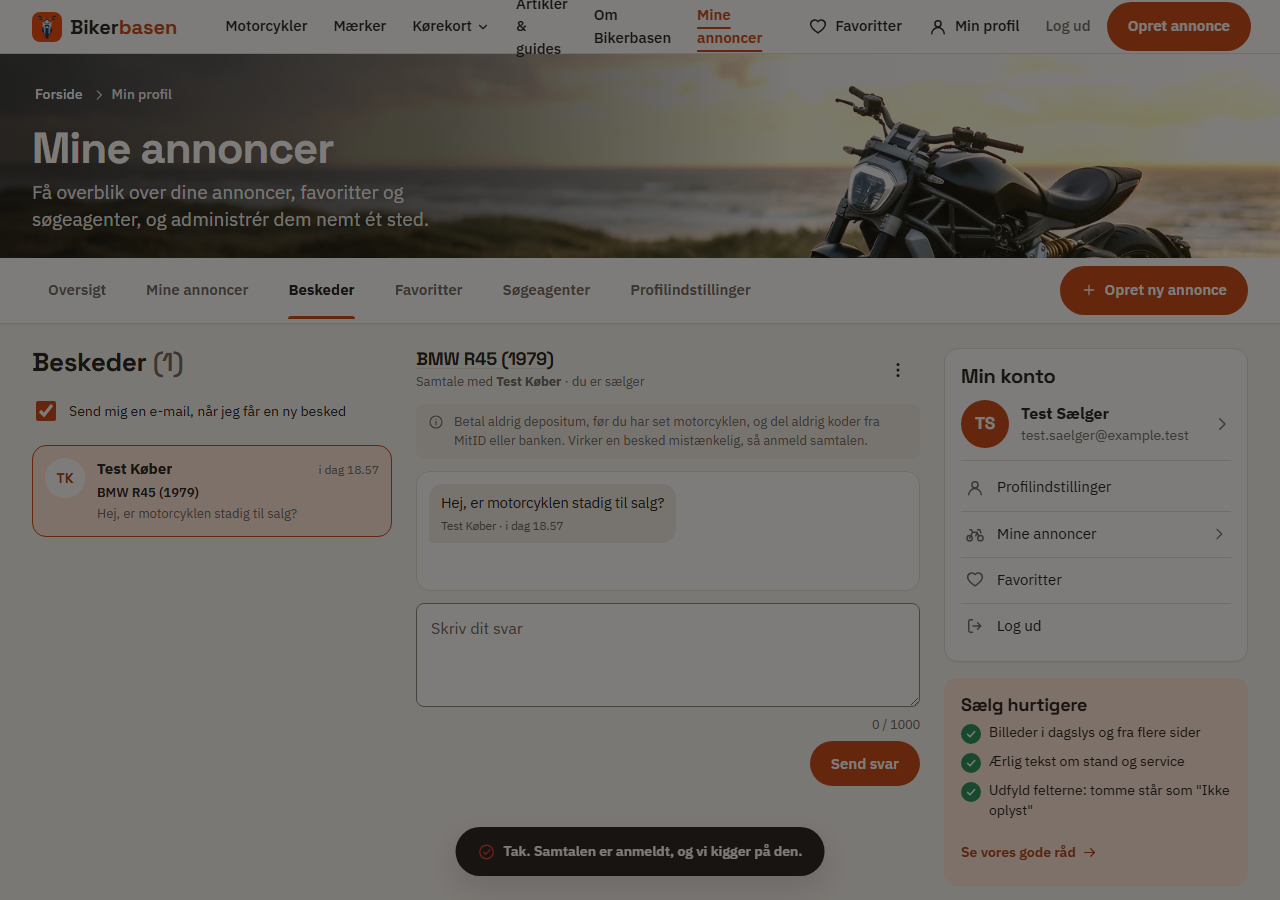
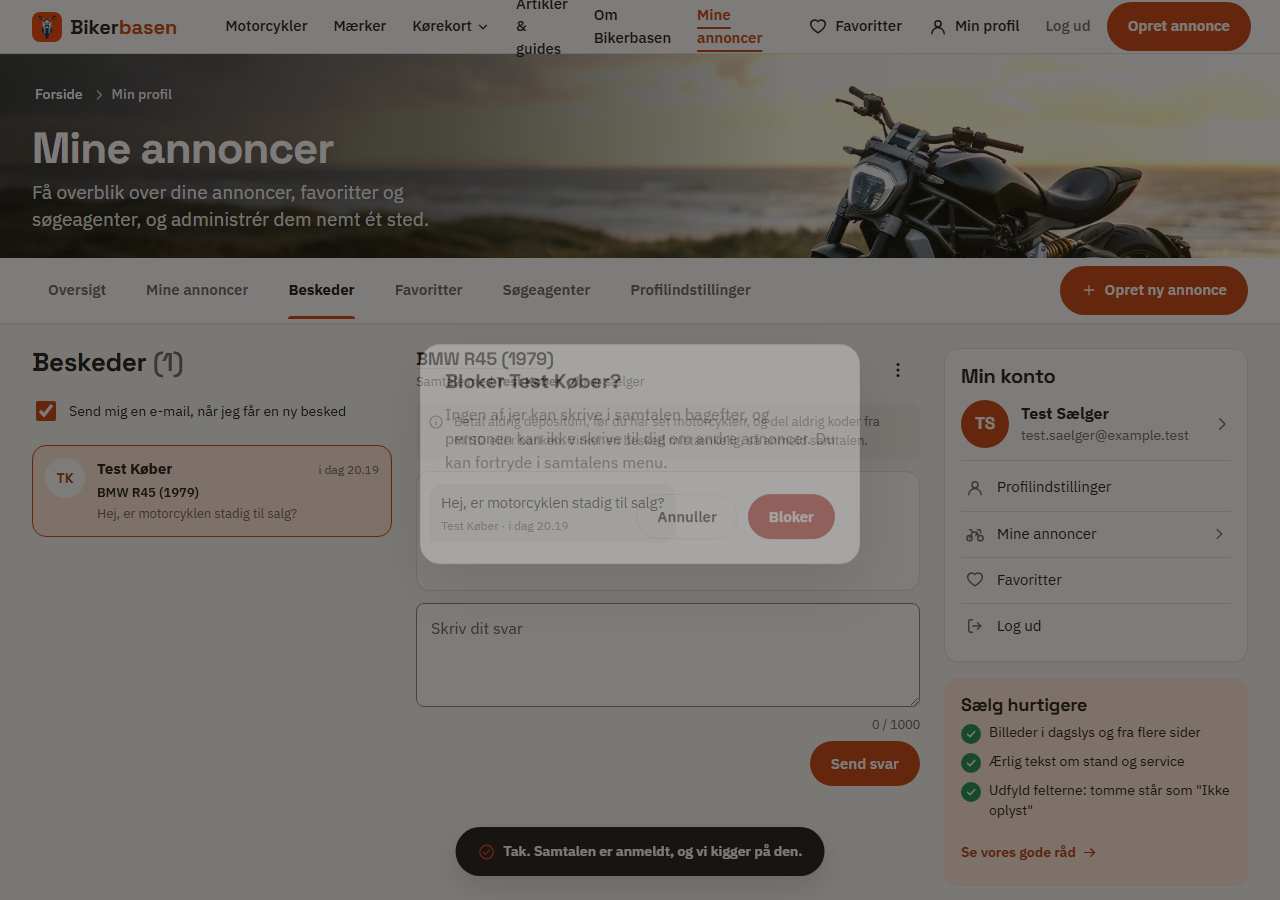
V7 beskeder: doku (aktiveringsguide, privatlivsforslag, selvvurdering) og slutskaermbilleder

Changed region(s): [[0.3125, 0.3733, 0.6875, 0.6533]]

diff --git a/docs/review/gauntlet/v7/besked.md b/docs/review/gauntlet/v7/besked.md
@@ -70,6 +70,7 @@ Fejler notifikationen, gemmes beskeden alligevel. Uudfyldte `<<PROJEKT_URL>>`/`<
 | `css/p-annonce.css` | To små regler til den nye kontaktbeskrivelse + pladsreservation til formularen. |
 | `scripts/v5-sidevaegt.budget.json` | Budget for de to nye filer + `supabase-config.js` (begrundet under `begrundelser_v7`). |
 | `js/w5-hjaelp.js` | Valgfri 4. parameter `foer` til `indlaes()` (kode før kilderne, bruges til flag-tests). |
+| `scripts/kritisk-gen.js` (+3 linjer), `scripts/kritisk-manifest.json` | **Ønsket ændring i fælles fil, gjort fordi gaten ellers fejler**: manifestet kendte kun ark, en side linker til; `scripts/w12-kritisk.test.js` kræver, at ALLE `css/*.css`-regler er kendt. `css/p-beskeder.css` er bevidst ikke linket fra nogen side (lazy), så generatoren tager nu alle ark i `css/` med i `regler` (aldrig i en families kritiske udsnit). Manifestet er regenereret med `kritisk-gen` (+100 regler). |
 
 ## 4. Flag fra (standard): hvad ser brugeren nu?
 
@@ -103,6 +104,10 @@ Nye filer (**ikke tilføjet til `package.json`** — Orchestrator ejer listen):
 | `js/v7-besked.test.js` | node | Validering, normalisering = SQL-reglen, hver SQL-kode har en dansk tekst, låse-/tids-/badgetekster, formularens markup, **flaget er default fra**, `beskeder.js` står ikke i nogen HTML, `bbIndlaesBeskeder()` henter intet uden flag, sælgerkortet i alle flag/login/uuid/egen-kombinationer. |
 | `js/v7-besked-sql.test.js` | node, **statisk SQL** | Alle tabeller har RLS; kun to politikker og begge `for select … to authenticated … auth.uid()`; ingen `using (true)`; ingen skrive-politik; ingen grant til anon/skriveret; hver funktion `security definer` + tom `search_path`; kun ti klientfunktioner med `execute` til authenticated; ingen e-mail/telefon i svar; rate-limit-linjerne findes; trigger-vagt; Edge Function læser ikke beskedtekst, escaper titel, kræver secret; ren ASCII; mock og SQL deler koder. |
 | `js/v7-besked-flow.test.js` | Playwright + mock | Flag fra (udlogget/indlogget, intet modul hentet, fane skjult); flag til: login-CTA, validering uden kald, send (netfejl, dobbeltklik, kvittering, notifikation uden tekst), honeypot, uverificeret e-mail + "send linket igen", egen/demo-annonce, mobilbjælke, sælger-badge -> læs -> svar -> køber-badge, deep-link, spam-grænser, slettet/solgt/pauset, blokér/fortryd/anmeld, XSS/escaping, tom/fejl-indbakke, mailvalg, **375/430 lys+mørk**, 1440/1920 mørk, CLS. Skærmbilleder med `BESKED_SKAERM=<mappe>`. |
+
+**Kørt på bygget tilstand** (`build.js` -> `kritisk-gen.js` -> `build.js`, alle exit 0): de tre nye + `w5-annonce`, `w6-funktion`, `v4-annonce`,
+`w14-annonce`, `w12-kritisk`, `v5-sidevaegt`, `csp-hashes`, `v6-konto-vagt`, `mine-annoncer` = 169 tests, **3 kørsler i træk, 0 fejl**.
+`smoke-browser --strikt --cls 0.05` (375/430/768/1440/1920, lys+mørk): `annonce.html` (10 målinger) og `--login-mock` med `mine-annoncer.html` (alle faner) + `opret-annonce.html` (70 målinger), **2 kørsler, 0 fejl, 0 advarsler**. Smoke kører med flaget FRA (standard); flag-til dækkes af `v7-besked-flow.test.js`. Det genererede byg-output er kasseret igen (kun `kritisk-manifest.json` er committet).
 
 Eksisterende tests, jeg har måttet røre (copy-ændringen er opgavens kerne):
 `js/w5-annonce.test.js`, `js/w6-funktion.test.js`, `js/v4-annonce.test.js` (nye formuleringer i flag-fra-teksten), `js/w6-funktion.test.js`
@@ -170,16 +175,31 @@ Rækkefølge — **flaget sættes SIDST**. Intet af dette er gjort.
 2. **Mailen kan ikke testes uden Resend/Deno.** Edge Function er læst og statisk kontrolleret, ikke kørt.
 3. **E-mailbekræftelse**: kræver at projektet faktisk sender bekræftelsesmails ved oprettelse. Er "Confirm email" slået fra i Supabase Auth, er ingen bruger "verificeret", og ingen kan skrive. Tjek Auth-indstillingen før flaget.
 4. **Statiske annoncesider** (`annonce-*.html`) har stadig "Log ind for at se sælger og kontaktoplysninger." i forrenderet markup (`scripts/build-listing-pages.js:288`) i de millisekunder, før JS erstatter kortet. Det er sandt nok i begge flagtilstande, men en ændring i generatoren (ikke mit område) kunne sige "Skriv til sælgeren" ved flag til.
-5. **Tilbagelevering til tredje part**: dealer-annoncer i `listings` får også beskedflade (alle brugeroprettede annoncer); eksterne har aldrig.
+5. **Dealer-annoncer**: dealer-annoncer i `listings` får også beskedflade (alle brugeroprettede annoncer); eksterne har aldrig.
 6. **Ingen realtime**: indbakken genhenter hvert 30. sekund og ved fokus. Supabase Realtime kunne erstatte det; kræver en politik-gennemgang.
 7. **Ingen vedhæftninger, ingen billeder i beskeder** (bevidst: ingen filer fra fremmede, ingen EXIF).
 8. **Mine annoncer-oversigtens statistikkort** viser ikke et beskedtal (badge på fane og header dækker behovet; kortgitteret har fem fliser).
 9. `package.json` "test"-listen skal have de tre nye filer (Orchestrator).
+10. **Før-eksisterende, ikke rørt**: headerens hovednavigation ombryder ("Artikler & guides", "Om Bikerbasen", "Mine annoncer" på 2-3 linjer) mellem ca. 1180 og 1366 px — målt identisk med og uden mine ændringer (flag fra, ingen badge). Badgen på "Min profil" tilføjer ~24 px til en allerede trang række ved de bredder; bør løses sammen med navigationen (fælles `css/styles.css`, ikke mit område).
+11. **Ingen kladde i browserens lager** (bevidst): den eksisterende test "alle sessionStorage-/localStorage-nøgler i js/ er nævnt på privatlivssiden" kræver, at hver nøgle står på privatlivssiden, og jeg må ikke røre den (en første version gemte en kladde i `sessionStorage`; den fangede testen, og den er fjernet). Skriver køberen og forlader siden, er teksten væk; ved fejl bevares den i feltet.
+12. **Sælgers navn til privat sælger**: tråden viser modpartens profilnavn (som i forvejen er offentligt for indloggede). Ønskes anonymitet indtil første svar, er det en produktbeslutning (ændr `modpart_navn` i `mine_samtaler`/`hent_samtale`).
 
 ## 10. Skærmbilleder
 
 `docs/review/gauntlet/v7/besked/` — `foer-*` (udgangspunkt, flag-fra-teksten før ændringen) og `flagfra-*` / `flagtil-*` (efter): annoncekort udlogget/indlogget, valideringsfejl, sendt, indbakke, tråd, slettet annonce, bloker-dialog, tom/fejl, mobil 375/430 og 1440/1920, lys og mørk.
 
-## 11. Selvvurdering (7 dimensioner, 1–10, pr. sidefamilie)
+## 11. Selvvurdering (7 dimensioner, 1-10, pr. sidefamilie)
 
-Udfyldes endeligt efter de afsluttende kørsler — se bunden af denne fil.
+Ærligt: ingen af tallene gælder produktion, før 025 er kørt og testet på staging. Karaktererne gælder koden og flowet mod mocken.
+
+| Dimension | Annoncesiden (kontaktkort) | Mine annoncer -> Beskeder |
+|---|---|---|
+| **Visuel kvalitet** | 8 — Kortet er stadig ét sammenhængende kort; formularen har samme tokens/knapper som resten. Flag-fra-teksten er fire linjer prosa uden ikon (bevidst, for kolonnebundene), lidt tæt. | 8 — to kolonner, status-mærker, ulæst-prik; tråden er en simpel boble-liste (ingen avatarer i bobler, ingen datoskillere). |
+| **Designkonsistens** | 8 — `.btn`, `.input`, `.seller-locked-note`, samme toast/dialog som resten. | 8 — genbruger `db-tab`, `db-list-title`, `bekraeft()`, `toast()`. Eget lazy-ark, men kun tokens. |
+| **Funktionalitet** | 8 — send, validering, dobbeltsend-spærre, netfejl uden tekst-tab, uverificeret e-mail med "send linket igen", eksisterende samtale vises. Ikke prøvet mod rigtig database. | 8 — læs/svar/ulæst, deep-link, blokér/fortryd, anmeld, mailvalg, låst ved solgt/pause/slettet, genhentning. Ingen realtime, ingen paginering over 100 tråde/200 beskeder. |
+| **Brugeroplevelse** | 9 — køber ser FØR login, hvad der sker; ærlig tekst i alle tilstande; hurtigstartere; kvittering med vej videre. | 8 — fokus lander rigtigt (tråd-overskrift, tilbage -> listen); tom/fejl/loading findes. Uden mail-aktivering hører sælgeren først om en besked ved næste login (derfor er guiden et krav). |
+| **Mobil** | 9 — 375/430: ingen overflow, felt 16 px (ingen iOS-zoom), Send 44 px, bjælken scroller til formularen. | 8 — liste ELLER tråd med tilbage-knap, 44 px-mål, badge på profilikonet. |
+| **Performance** | 8 — flag fra: ingen ekstra requests (`beskeder.js`/CSS hentes ikke, målt), men koden i eksisterende filer vokser (annoncesiden ca. +3,7 kB gzip: `annonce.js` +1,6, `components.js` +0,8, config +0,6, CSS +0,8). Flag til: lazy 10 + 2,7 kB gzip, CLS 0,002-0,013. | 8 — intet ekstra hentes før fanen åbnes (Mine annoncer ca. +2,4 kB gzip i delte filer); genhentning hvert 30. s kun når synlig. |
+| **Indholdskvalitet** | 9 — ærlig, dansk, ingen opdigtet svartid/tal; siger hvad der ikke deles. | 9 — hver fejlkode har en forklarende sætning (testet); sikkerhedsråd i tråden. |
+
+Samlet pr. mockup: **Annonce.png** (kontaktkortet) 8/10 — ejerens problem er løst i begge flagtilstande; **Mine annoncer.png** 8/10 — ny fane følger mockuppens faner, men mockuppen har ingen Beskeder-fane at måle mod.
